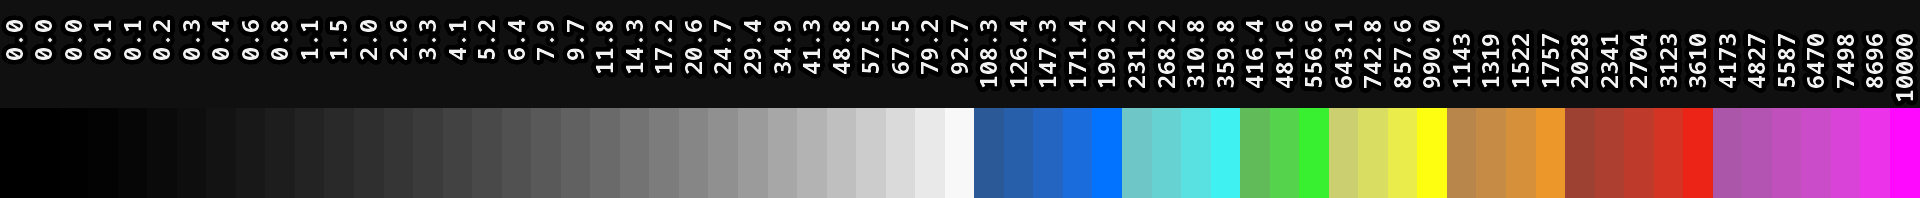
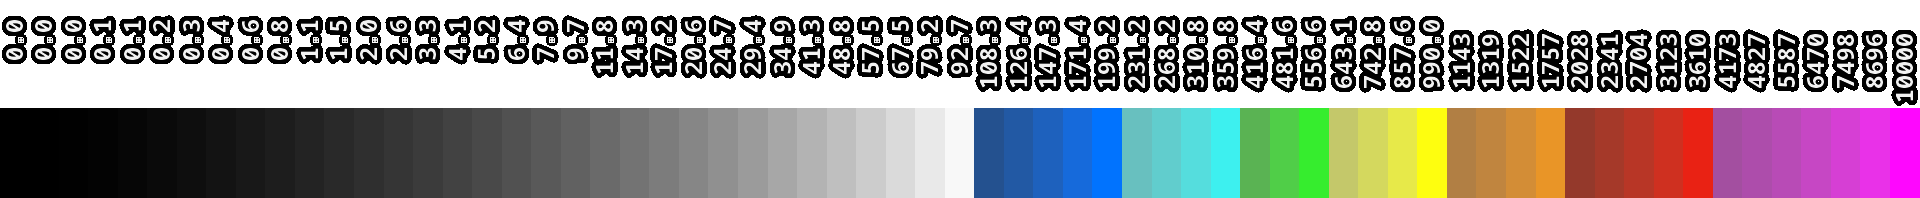
#274 add alpha channel to sample png.

diff --git a/2025/06_False_Color_Filter_for_OBS/create_false_color_3dlut.py b/2025/06_False_Color_Filter_for_OBS/create_false_color_3dlut.py
@@ -1,0 +1,148 @@
+# import standard libraries
+import os
+
+# import third-party libraries
+import numpy as np
+from colour import write_LUT, LUT3D
+
+# my libraries
+import color_space as cs
+import transfer_functions as tf
+from apply_false_color import (
+    convert_to_bt2020_linear,
+    apply_false_color_filter_for_Y,
+    apply_false_color_filter_for_maxRGB,
+    palette_0,
+    palette_1,
+    palette_2,
+    palette_3,
+    palette_4,
+    palette_5,
+    palette_6,
+)
+
+
+def convert_to_source_cs_linear(linear_bt2020, source_cs_name, source_tf_name):
+    """
+    Returns
+    -------
+    ndarray
+        The output image in souce color space with oetf.
+        Nominal white is represented as (1, 1, 1) in the Rec.2020-Linear color space.
+        Peak white is represented as (100, 100, 100) in the Rec.2020-Linear color space.
+    """
+
+    if source_cs_name == cs.BT2020:
+        linear_source_cs = linear_bt2020
+    else:
+        large_xyz = cs.rgb_to_large_xyz(linear_bt2020, cs.BT2020)
+        linear_source_cs = cs.large_xyz_to_rgb(large_xyz, source_cs_name)
+
+    rgb = tf.oetf_from_luminance(linear_source_cs * 100.0, source_tf_name)
+
+    return rgb
+
+
+def convert_to_sRGB(linear_bt2020):
+    """
+    Returns
+    -------
+    ndarray
+        The output image in sRGB.
+    """
+    large_xyz = cs.rgb_to_large_xyz(linear_bt2020, cs.BT2020)
+    linear_bt709 = cs.large_xyz_to_rgb(large_xyz, cs.BT709)
+
+    srgb_img = tf.oetf(np.clip(linear_bt709, 0.0, 1.0), tf.SRGB)
+
+    return srgb_img
+
+
+def create_false_color_3dlut(num_of_grid=65, color_space_name=cs.BT2020):
+    """
+    Create a 3D LUT for false color filter.
+
+    Parameters
+    ----------
+    num_of_grid : int, optional
+        The number of grid points in the LUT. Default is 65.
+    color_space_name : str, optional
+        The name of the target color space. Default is 'BT.2020'.
+    """
+    palette_list = np.array(
+        [palette_0, palette_1, palette_2, palette_3, palette_4, palette_5, palette_6]
+    )
+    if color_space_name == cs.BT2020:
+        cs_suffix = "Rec.2100-PQ"
+    elif color_space_name == cs.P3_D65:
+        cs_suffix = "P3D65-PQ"
+    else:
+        raise ValueError("Invalid color space name.")
+
+    rgb_st2084 = LUT3D.linear_table(num_of_grid)
+
+    img_rec2100_linear = convert_to_bt2020_linear(
+        img=rgb_st2084, source_cs_name=color_space_name, source_tf_name=tf.ST2084
+    )
+
+    false_color_img_y_base_bt2020_linear = apply_false_color_filter_for_Y(
+        img=img_rec2100_linear, palette_list=palette_list
+    )
+    false_color_img_maxRGB_base_bt2020_linear = apply_false_color_filter_for_maxRGB(
+        img=img_rec2100_linear, palette_list=palette_list
+    )
+
+    false_color_img_y_base = convert_to_source_cs_linear(
+        linear_bt2020=false_color_img_y_base_bt2020_linear,
+        source_cs_name=color_space_name,
+        source_tf_name=tf.ST2084
+    )
+    false_color_img_maxRGB_base = convert_to_source_cs_linear(
+        linear_bt2020=false_color_img_maxRGB_base_bt2020_linear,
+        source_cs_name=color_space_name,
+        source_tf_name=tf.ST2084
+    )
+
+    false_color_img_y_base_sRGB = convert_to_sRGB(
+        linear_bt2020=false_color_img_y_base_bt2020_linear,
+    )
+    false_color_img_maxRGB_base_sRGB = convert_to_sRGB(
+        linear_bt2020=false_color_img_maxRGB_base_bt2020_linear,
+    )
+
+    lut3d_y = LUT3D(
+        table=false_color_img_y_base,
+        name="7JzCzhz False Color (Y-based)"
+    )
+    lut3d_maxRGB = LUT3D(
+        table=false_color_img_maxRGB_base,
+        name="7JzCzhz False Color (maxRGB-based)"
+    )
+
+    lut3d_y_sRGB = LUT3D(
+        table=false_color_img_y_base_sRGB,
+        name="7JzCzhz False Color (Y-based) conv to sRGB"
+    )
+    lut3d_maxRGB_sRGB = LUT3D(
+        table=false_color_img_maxRGB_base_sRGB,
+        name="7JzCzhz False Color (maxRGB-based) conv to sRGB"
+    )
+
+    grid_str = f"{num_of_grid}x{num_of_grid}x{num_of_grid}"
+    out_fname_y = f"./lut/7JzCzhz_false_color_{cs_suffix}_{grid_str}_Y.cube"
+    out_fname_maxRGB = f"./lut/7JzCzhz_false_color_{cs_suffix}_{grid_str}_maxRGB.cube"
+    out_fname_y_sRGB = f"./lut/7JzCzhz_false_color_{cs_suffix}_{grid_str}_Y_sRGB.cube"
+    out_fname_maxRGB_sRGB = f"./lut/7JzCzhz_false_color_{cs_suffix}_{grid_str}_maxRGB_sRGB.cube"
+    print(out_fname_y)
+    print(out_fname_maxRGB)
+
+    write_LUT(lut3d_y, out_fname_y)
+    write_LUT(lut3d_y_sRGB, out_fname_y_sRGB)
+    write_LUT(lut3d_maxRGB, out_fname_maxRGB)
+    write_LUT(lut3d_maxRGB_sRGB, out_fname_maxRGB_sRGB)
+
+
+if __name__ == '__main__':
+    os.chdir(os.path.dirname(os.path.abspath(__file__)))
+    create_false_color_3dlut(num_of_grid=65, color_space_name=cs.BT2020)
+    create_false_color_3dlut(num_of_grid=65, color_space_name=cs.P3_D65)

diff --git a/2025/06_False_Color_Filter_for_OBS/apply_false_color.py b/2025/06_False_Color_Filter_for_OBS/apply_false_color.py
@@ -156,6 +156,19 @@ def debug_func():
     tpg.img_wirte_float_as_16bit_int("./debug/RE4_maxRGB.png", srgb_img_maxRGB)
 
 
+def debug_func_2_calc_rgb_to_rgb_mtx():
+    from colour import matrix_RGB_to_RGB
+    import color_space as cs
+
+    p3d65_to_bt2020 = matrix_RGB_to_RGB(cs.P3_D65, cs.BT2020)
+    bt2020_to_p3d65 = matrix_RGB_to_RGB(cs.BT2020, cs.P3_D65)
+    bt2020_to_rec709 = matrix_RGB_to_RGB(cs.BT2020, cs.BT709)
+
+    print(p3d65_to_bt2020)
+    print(bt2020_to_p3d65)
+    print(bt2020_to_rec709)
+
+
 def main(src_file="./img/src_tp_rec2100-pq.png"):
     palette_list = np.array(
         [palette_0, palette_1, palette_2, palette_3, palette_4, palette_5, palette_6]
@@ -202,5 +215,6 @@ def main(src_file="./img/src_tp_rec2100-pq.png"):
 if __name__ == '__main__':
     os.chdir(os.path.dirname(os.path.abspath(__file__)))
     main("./img/step_ramp_step_65.png")
-    main("./img/src_tp_rec2100-pq.png")
+    # main("./img/src_tp_rec2100-pq.png")
     # debug_func()
+    # debug_func_2_calc_rgb_to_rgb_mtx()

diff --git a/ty_lib/test_pattern_generator2.py b/ty_lib/test_pattern_generator2.py
@@ -290,8 +290,7 @@ def img_read(filename):
     """
     OpenCV の BGR 配列が怖いので並べ替えるwrapperを用意。
     """
-    img = cv2.imread(filename, cv2.IMREAD_ANYDEPTH | cv2.IMREAD_COLOR)
-
+    img = cv2.imread(filename, cv2.IMREAD_ANYDEPTH | cv2.IMREAD_UNCHANGED)
     if img is not None:
         if img.shape[2] == 3:
             return img[:, :, ::-1]
